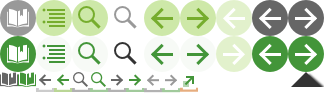
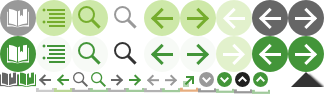
CSS/SVG: more unique image in the top bar to show/hide the contents
git-svn-id: svn+ssh://svn.code.sf.net/p/daps/svn/trunk/daps@2283 2c1a2506-8097-4b87-b405-3e90b480097b

Changed region(s): [[0.5864, 0.6486, 0.8333, 0.8649]]

diff --git a/xslt_suse2/xhtml/static/css/susebooks.css b/xslt_suse2/xhtml/static/css/susebooks.css
@@ -270,6 +270,26 @@ html, body {
     background-position: -18px -72px;
 }
 
+#_fixed-header .book2-icon {
+    width: 18px;
+    height: 15px;
+    margin: 1px 0;
+    background-position: -199px -72px;
+}
+
+.inactive #_fixed-header a:hover .book2-icon {
+    background-position: -217px -72px;
+}
+
+.active #_fixed-header .book2-icon {
+    background-position: -235px -72px;
+}
+
+.active #_fixed-header a:hover .book2-icon {
+    background-position: -253px -72px;
+}
+
+
 /* Language and Format Pickers*/
 
 #_pickers {
@@ -549,8 +569,12 @@ html, body {
     padding: 0;
 }
 
-#_toolbar .bubble-container, #_fixed-header-wrap .bubble-container {
+#_toolbar .bubble-container {
     padding: 0 10px 10px;
+}
+
+#_fixed-header-wrap .bubble-container {
+    padding: 10px;
 }
 
 #_bubble-toc {
